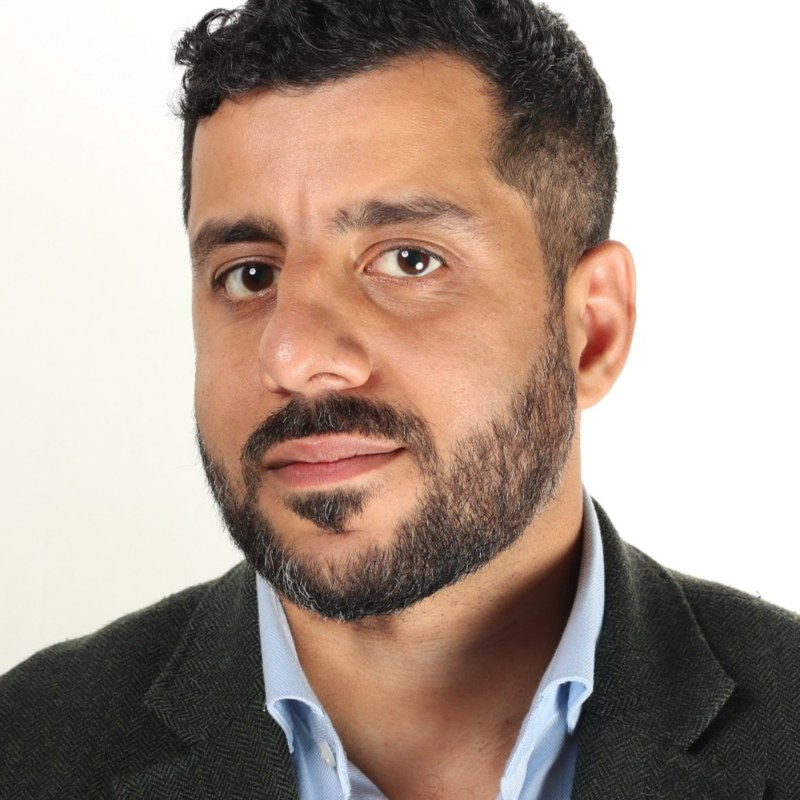
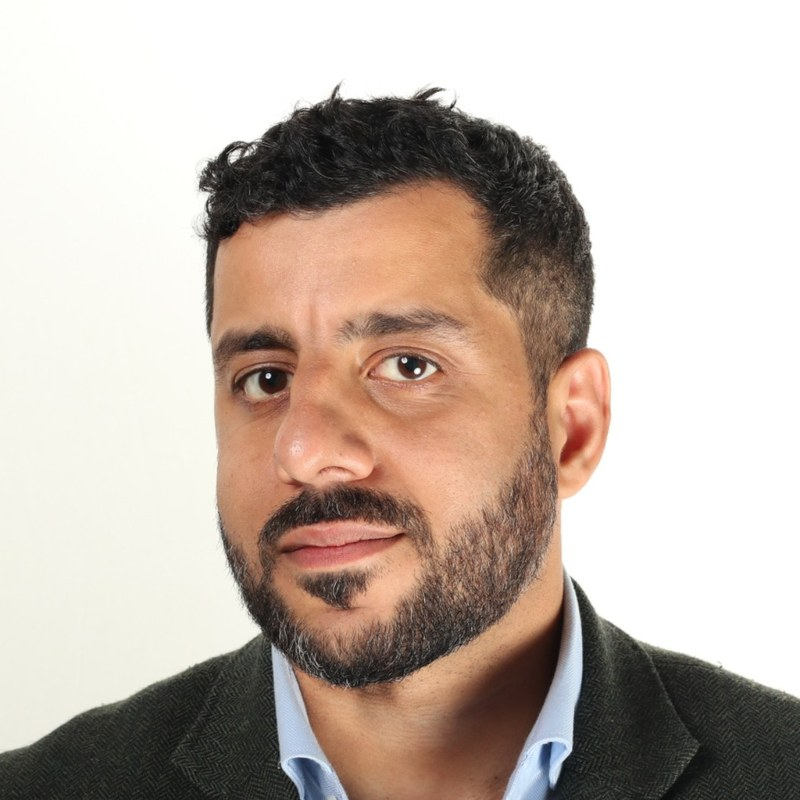
Website links for Keene and Lim, wider headshot, reordered rhythm copy
- Bio pop-ups can now show the person's own website at the bottom;
  added drdanielkeene.co.uk and drboonlim.co.uk.
- Dr Keene's bio names him a key opinion leader in cardiac devices;
  Dr Lim's no longer mentions the scholarship.
- Dr Mohamed Zuhair's photo is cropped wider so his hair isn't cut off.
- "Every Heartbeat Counts" paragraphs reordered as requested.

Claude-Session: https://claude.ai/code/session_01RiFHuxswWwvsjXWB339jTQ

diff --git a/src/data/people.js b/src/data/people.js
@@ -48,7 +48,8 @@ export const advisors = [
         credential: 'Consultant Cardiologist & Electrophysiologist',
         affiliation: 'Imperial College Healthcare NHS Trust | Imperial College London',
         photo: '/assets/photos/Boon_Lim.jpg',
-        bio: 'Dr Boon Lim is one of the UK’s leading heart rhythm specialists: a consultant cardiologist and electrophysiologist at Imperial College Healthcare NHS Trust and Imperial College London, and clinical lead of the nationally renowned Imperial Syncope Diagnostic Service at Hammersmith Hospital. He read medicine at Cambridge University on a scholarship, graduating with a double first-class honours degree, and earned his PhD at Imperial College London researching the autonomic mechanisms of atrial fibrillation, funded by the British Heart Foundation. He has performed more than 2,500 atrial fibrillation ablations and published over 100 peer-reviewed papers, and is a recognised authority on atrial fibrillation, arrhythmias, fainting and catheter ablation. He was voted Top Doctor of the Year for Cardiology by his peers in 2018 and 2021, and received the President’s Medal for Cardiology from the Royal Society of Medicine. He is the author of Keeping Your Heart Healthy, part of the Penguin Life Experts series: an accessible guide to looking after your heart, from blood pressure and cholesterol to chest pain and fainting.',
+        website: 'https://drboonlim.co.uk/',
+        bio: 'Dr Boon Lim is one of the UK’s leading heart rhythm specialists: a consultant cardiologist and electrophysiologist at Imperial College Healthcare NHS Trust and Imperial College London, and clinical lead of the nationally renowned Imperial Syncope Diagnostic Service at Hammersmith Hospital. He read medicine at Cambridge University, graduating with a double first-class honours degree, and earned his PhD at Imperial College London researching the autonomic mechanisms of atrial fibrillation, funded by the British Heart Foundation. He has performed more than 2,500 atrial fibrillation ablations and published over 100 peer-reviewed papers, and is a recognised authority on atrial fibrillation, arrhythmias, fainting and catheter ablation. He was voted Top Doctor of the Year for Cardiology by his peers in 2018 and 2021, and received the President’s Medal for Cardiology from the Royal Society of Medicine. He is the author of Keeping Your Heart Healthy, part of the Penguin Life Experts series: an accessible guide to looking after your heart, from blood pressure and cholesterol to chest pain and fainting.',
     },
     {
         name: 'Dr Daniel Keene',
@@ -56,7 +57,8 @@ export const advisors = [
         credential: 'Consultant Cardiologist & Electrophysiologist',
         affiliation: 'Royal Free London NHS Foundation Trust | Imperial College London',
         photo: '/assets/photos/Daniel_Keene.jpg',
-        bio: 'Dr Daniel Keene is a consultant cardiologist and electrophysiologist and the lead for electrophysiology and cardiac devices at the Royal Free London NHS Foundation Trust. He is also Clinical Senior Lecturer in Cardiac Electrophysiology and Devices at the National Heart and Lung Institute, Imperial College London, and treats patients at Imperial College Healthcare NHS Trust. After graduating from the University of Manchester with commendations, he was awarded a National Institute for Health and Care Research Academic Clinical Fellowship at Imperial and a highly competitive British Heart Foundation Clinical Research Training Fellowship, completing a PhD on novel implantable cardiac device technologies. He performs complex catheter ablation across the full range of heart rhythm disorders and specialises in advanced pacing, including conduction system pacing and pacing for heart failure. His research spans pacing for slow heart rhythms and heart failure, and the mechanisms and treatment of syncope. He is a member of the British Cardiovascular Society and the British Heart Rhythm Society.',
+        website: 'https://www.drdanielkeene.co.uk/',
+        bio: 'Dr Daniel Keene is a consultant cardiologist and electrophysiologist, a key opinion leader in cardiac devices, and the lead for electrophysiology and cardiac devices at the Royal Free London NHS Foundation Trust. He is also Clinical Senior Lecturer in Cardiac Electrophysiology and Devices at the National Heart and Lung Institute, Imperial College London, and treats patients at Imperial College Healthcare NHS Trust. After graduating from the University of Manchester with commendations, he was awarded a National Institute for Health and Care Research Academic Clinical Fellowship at Imperial and a highly competitive British Heart Foundation Clinical Research Training Fellowship, completing a PhD on novel implantable cardiac device technologies. He performs complex catheter ablation across the full range of heart rhythm disorders and specialises in advanced pacing, including conduction system pacing and pacing for heart failure. His research spans pacing for slow heart rhythms and heart failure, and the mechanisms and treatment of syncope. He is a member of the British Cardiovascular Society and the British Heart Rhythm Society.',
     },
     {
         name: 'Dr Tiffany Ng',

diff --git a/src/components/EveryHeartbeat.jsx b/src/components/EveryHeartbeat.jsx
@@ -27,10 +27,9 @@ export default function EveryHeartbeat() {
                                 signal steady depends on nutrients the heart can&rsquo;t do without.
                             </p>
                             <p>
-                                Rhythmia was created by cardiologists who wanted to bring every one
-                                of those evidence-based nutrients together in a single daily
-                                formula &ndash; to support every beat, for people living with heart
-                                disease and for anyone who wants to protect their heart.
+                                Rhythm disorders are common, affecting millions of people.
+                                Palpitations, the feeling of flutters or skipped beats, can affect
+                                people of all ages.
                             </p>
                         </div>
 
@@ -43,12 +42,14 @@ export default function EveryHeartbeat() {
 
                         <div className="prose">
                             <p>
-                                Rhythm disorders are common affecting millions of people. Palpitations,
-                                the feeling of flutters or skipped beats, can affect people of all ages.
-                            </p>
-                            <p>
                                 Palpitations and irregular heartbeats disrupt sleep, exercise, and work
                                 for a significant number of people who experience them.
+                            </p>
+                            <p>
+                                Rhythmia was created by cardiologists who wanted to bring every
+                                evidence-based nutrient for heart rhythm together in a single daily
+                                formula &ndash; to support every beat, for people living with heart
+                                disease and for anyone who wants to protect their heart.
                             </p>
                         </div>
                     </motion.div>

diff --git a/src/pages/AboutPage.jsx b/src/pages/AboutPage.jsx
@@ -1,6 +1,6 @@
 import { useEffect, useRef, useState } from 'react'
 import { motion, AnimatePresence } from 'framer-motion'
-import { X } from 'lucide-react'
+import { X, ExternalLink } from 'lucide-react'
 import Navbar from '../components/Navbar'
 import Footer from '../components/Footer'
 import Portrait from '../components/Portrait'
@@ -116,6 +116,17 @@ function BioDialog({ person, onClose, takeFocus }) {
                     </div>
                 </div>
                 <p className="bio-text">{person.bio}</p>
+                {person.website && (
+                    <a
+                        className="bio-website"
+                        href={person.website}
+                        target="_blank"
+                        rel="noopener noreferrer"
+                    >
+                        {person.website.replace(/^https?:\/\/(www\.)?/, '').replace(/\/$/, '')}
+                        <ExternalLink size={14} strokeWidth={2} aria-hidden="true" />
+                    </a>
+                )}
             </motion.div>
         </motion.div>
     )

diff --git a/src/styles/about.css b/src/styles/about.css
@@ -208,6 +208,23 @@
     line-height: var(--leading-relaxed);
 }
 
+/* The person's own site, under their bio. */
+.bio-website {
+    display: inline-flex;
+    align-items: center;
+    gap: var(--space-2);
+    margin-top: var(--space-5);
+    font-size: var(--text-sm);
+    font-weight: var(--weight-semibold);
+    color: var(--accent-text);
+    text-decoration: underline;
+    text-underline-offset: 3px;
+}
+
+.bio-website:hover {
+    text-decoration-thickness: 2px;
+}
+
 @media (max-width: 700px) {
     .person-grid {
         grid-template-columns: repeat(auto-fill, minmax(140px, 1fr));
